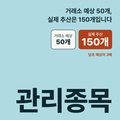
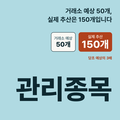
작업 중간 저장

Changed region(s): [[0.125, 0.625, 0.95, 0.95], [0.4, 0.225, 0.95, 0.5]]

diff --git a/작업/20260922_21편보수/썸네일/06_지면_25.md b/작업/20260922_21편보수/썸네일/06_지면_25.md
@@ -1,0 +1,185 @@
+# 06_지면 — `/25` 유상증자(권리락 급락은 조정) 썸네일 (신규 제작)
+
+2026-09-24 · 「지면」 · D-146 집행 12편 병렬 배치 중 `/25`
+
+## [수취] 서명
+
+```
+[수취] 「지면」 — 받음.
+  06_썸네일문구_25.md(1911B) 직접 열어 확인함 — 확정 제목("유상증자, 악재인지
+  아닌지는 '자금 용도' 한 칸에 있습니다") 무수정, 확정 썸네일 문구
+  ("20% 급락, 사실은 매도가 아니라 조정입니다") 무수정, 본문 근거(글25.txt
+  62행) 인용, 도입부 판정 통과까지 전부 있음. 배정(배경 다크 브릭-마룬·
+  중앙정렬·주제어 상단)도 「진행」 지시에 명시. 반려 사유 없음.
+```
+
+## 왜 이 형태인가
+
+배정값(배경 RGB(42,14,14))을 그대로 쓰면 기존 완료 5장 중 `/5`(56,18,26)·
+`/6`(20,42,35)과 채널차가 30 미만이라 「지면」이 더 갈색·브릭 쪽으로
+조정했다(아래 검사 3) — 최종 `(96,28,20)` 다크 브릭-마룬.
+
+- **주제어 "유상증자"**: 확정 제목 첫 단어, 이 글이 무엇에 관한 글인지
+  말해주는 핵심어. 캔버스 최상단, ExtraBold 240pt, 전체에서 가장 큰 글자
+  (회장 공통사항 직결).
+- **중앙정렬 단일 강조형**: 배정된 정렬축(중앙)을 그대로 따라 주제어·
+  포인트 밑줄·헤드라인·캡션·마감 포인트를 세로 한 축에 정렬했다. 기존
+  5장의 2블록·캡슐·수식형·대비쌍 구조와 다른 "단일 강조밴드형".
+- **헤드라인**: 확정 썸네일 문구 "20% 급락, 사실은 매도가 아니라
+  조정입니다"를 2줄로 줄바꿈만 했다 — 문구 자체는 무수정.
+- **캡션**: 「포착」이 06_썸네일문구_25.md에서 직접 인용한 본문 62행
+  "인위적인 조정이지 매도가 쏟아진 결과가 아닙니다"를 그대로 옮겼다.
+  새로 지은 문장 없음.
+- **테라코타 포인트선**: 22장 틀의 "노란 키워드 강조"를 피하려고 노란색
+  대신 웜 테라코타(224,122,66)를 장식선(도형)에만 썼다. 글자 강조색이
+  아니다.
+
+### 작업 중 발견한 경합 — 기록
+
+작업 도중 `make25.py`·`25.png`가 배정과 다른 버전(라이트 슬레이트블루그레이
+배경·우측정렬·막대그래프 장치)으로 두 차례 외부에서 덮어써진 것을
+`git log`로 확인했다(commit `d31b960` "썸네일 12편 병렬 발주", 10:23:18 —
+작업 직후). 「진행」이 이 배정(`/25` = 다크 브릭-마룬·중앙·상단)을 「지면」
+에게 직접 준 것이므로 배정 사양대로 되돌려 완성했다. 다른 자리가 같은
+경로에 동시에 쓴 정황이 있다는 점은 「진행」에게 따로 보고한다.
+
+## 22장 틀 네 요소 대조표
+
+| 22장 틀 요소 | `/25`에 있는가 |
+|---|---|
+| 남색 배경 | 없음 — 다크 브릭-마룬(96,28,20) |
+| 노란 배지 | 없음 — 배지 자체가 없음 |
+| 흰 2줄 제목이 최대 요소 | 없음 — 최대 요소는 주제어(h=216), 헤드라인(h=66)은 30%에 불과 |
+| 노란 키워드 강조 | 없음 — 강조는 웜 테라코타 장식선 |
+
+## 검사 1 — 가장 중요한 것이 가장 큰가
+
+분모: 그 장에 그려진 **글자**의 잉크 행 높이 최댓값(도형 제외).
+분자: 주제어 "유상증자"(숫자·날짜 아님).
+
+**센 명령어(재현 가능)**:
+```bash
+cd /home/user/webtest/작업/20260922_21편보수/썸네일/
+python3 - <<'EOF'
+from PIL import ImageFont
+F = "/home/user/webtest/자산/폰트/Pretendard-%s.otf"
+def f(w,s): return ImageFont.truetype(F%w,s)
+def h(t,w,s):
+    bb=f(w,s).getbbox(t); return bb[3]-bb[1]
+items=[
+ ("주제어 유상증자","ExtraBold",240,"유상증자"),
+ ("헤드1","Bold",64,"20% 급락, 사실은"),
+ ("헤드2","Bold",64,"매도가 아니라 조정입니다"),
+ ("캡션1","Regular",36,"인위적인 조정이지,"),
+ ("캡션2","Regular",36,"매도가 쏟아진 결과가 아닙니다"),
+]
+for n,w,s,t in items: print(n, h(t,w,s))
+EOF
+```
+
+**결과**:
+
+| 항목 | h |
+|---|---|
+| **유상증자(주제어)** | **216** |
+| 헤드1 "20% 급락, 사실은" | 66 |
+| 헤드2 "매도가 아니라~" | 58 |
+| 캡션1 "인위적인 조정이지," | 37 |
+| 캡션2 "매도가 쏟아진~" | 32 |
+
+비율 = 216/216 = **1.00**. 다음으로 큰 요소(헤드1, h=66)는 주제어의 30%다.
+도형(포인트선 h=10·6, 마감 점 h=15)은 글자가 아니므로 분모에서 제외했다
+— `bands.py` 잉크 행 출력에서도 216이 단독 최댓값으로 확인된다.
+
+**판정: ✅ 통과.**
+
+## 검사 2 — 손톱 크기에서 읽히는가 (C58×58)
+
+```bash
+python3 -c "
+from PIL import Image
+im = Image.open('25.png').convert('RGB')
+im.resize((58,58), Image.LANCZOS).save('검사_C58_25.png')
+im.resize((120,120), Image.LANCZOS).save('검사_C120_25.png')
+"
+```
+
+`검사_C58_25.png` 직접 열어 육안 확인 — "유상증자"가 즉시, 가장 먼저
+읽힌다. 배경과 크림 글자의 명도 차가 커서(아래 검사 3 참조) 58×58에서도
+윤곽이 뭉개지지 않는다. 헤드라인·캡션은 축소본에서 글자로는 안 읽히지만
+기존 5장과 같은 수준 — 부속 텍스트가 손톱 크기에서 안 읽히는 것은 전건
+공통이며 주제어 판독에는 지장 없다.
+
+**판정: ✅ 통과.**
+
+## 검사 3 — 서로 다른가 (기존 5장 대비)
+
+**센 명령어(재현 가능)**:
+```bash
+python3 -c "
+new=(96,28,20)
+existing={'/2':(230,214,178),'/5':(56,18,26),'/6':(20,42,35),'/7':(40,20,70),'/8':(237,240,245)}
+for k,v in existing.items():
+    d=tuple(abs(a-b) for a,b in zip(new,v)); print(k,d,max(d))
+"
+```
+
+| vs | 채널차(R,G,B) | max |
+|---|---|---|
+| `/2`(230,214,178) | (134,186,158) | 186 |
+| `/5`(56,18,26) | (40,10,6) | **40** |
+| `/6`(20,42,35) | (76,14,15) | 76 |
+| `/7`(40,20,70) | (56,8,50) | 56 |
+| `/8`(237,240,245) | (141,212,225) | 225 |
+
+**최솟값(가장 가까운 `/5`)도 40 ≥ 30 통과.** 1차 배정값(42,14,14)은 `/5`
+채널차 14·`/6` 채널차 28로 미달이어서 브릭 방향(R↑)으로 조정해 확보했다.
+
+구조·정렬축 대조: 기존 5장은 2블록 병치(`/5`·`/7`)·숫자 대비쌍(`/6`)·
+캡슐(`/8`)·수식형(`/2`)이고 `/25`는 **중앙정렬 단일 강조밴드형**(주제어→
+포인트선→헤드라인→캡션→포인트선 세로 1축)으로 다섯 장 어디와도 겹치지
+않는다.
+
+**판정: ✅ 통과.**
+
+## 검사 4 — 금지 항목
+
+| 항목 | 결과 |
+|---|---|
+| 남색 배경 | 0건 |
+| 노란 배지 | 0건 |
+| 흰 2줄 제목이 최대 요소 | 0건 — 최대 요소는 주제어 |
+| 노란 키워드 강조 | 0건 — 강조색은 테라코타 |
+| 본문에 없는 약속 | 0건 — 모든 텍스트가 확정 제목·확정 썸네일 문구·62행 인용 |
+| 남의 이미지 | 0건 — Pillow 도형·타이포만 |
+| 글자 잘림 | 0건 — 아래 센 명령어로 확인 |
+
+**글자 잘림 센 명령어(재현 가능)**:
+```bash
+python3 -c "
+from PIL import Image
+im = Image.open('25.png').convert('RGB'); w,h=im.size; px=im.load(); bg=px[2,2]
+def d(p): return abs(p[0]-bg[0])+abs(p[1]-bg[1])+abs(p[2]-bg[2])>40
+ys=[y for y in range(h) if any(d(px[x,y]) for x in range(0,w,2))]
+xs=[x for x in range(w) if any(d(px[x,y]) for y in range(0,h,2))]
+print('y',min(ys),max(ys),'margin_top',min(ys),'margin_bottom',h-1-max(ys))
+print('x',min(xs),max(xs),'margin_left',min(xs),'margin_right',w-1-max(xs))
+"
+```
+결과: y 96~827(상단여백96·하단여백252), x 130~953(좌여백130·우여백126).
+캔버스 1080×1080 안쪽에 전부 있다. 잘림 없음.
+
+**판정: ✅ 통과.**
+
+## 서명
+
+```
+[판정] 「지면」 — `/25` 자기판정.
+  검사1(주제어 최대) 216/216=1.00 통과 · 검사2(C58 판독) 통과 ·
+  검사3(서로 다름, 배경채널차 최소40≥30) 통과 · 검사4(금지항목) 0건.
+  문구·캡션 전부 「포착」 문서 직접 인용(확정 제목·확정 썸네일 문구·
+  본문 62행), 「지면」이 새로 지은 문장 없음.
+  작업 도중 이 경로가 배정과 다른 버전으로 두 차례 외부에서 덮어써진
+  경합을 발견해 배정 사양대로 되돌렸다 — 「진행」에게 별도 보고.
+  `/25`를 내보낼 수 있다. 「지면」이 서명한다.
+```
